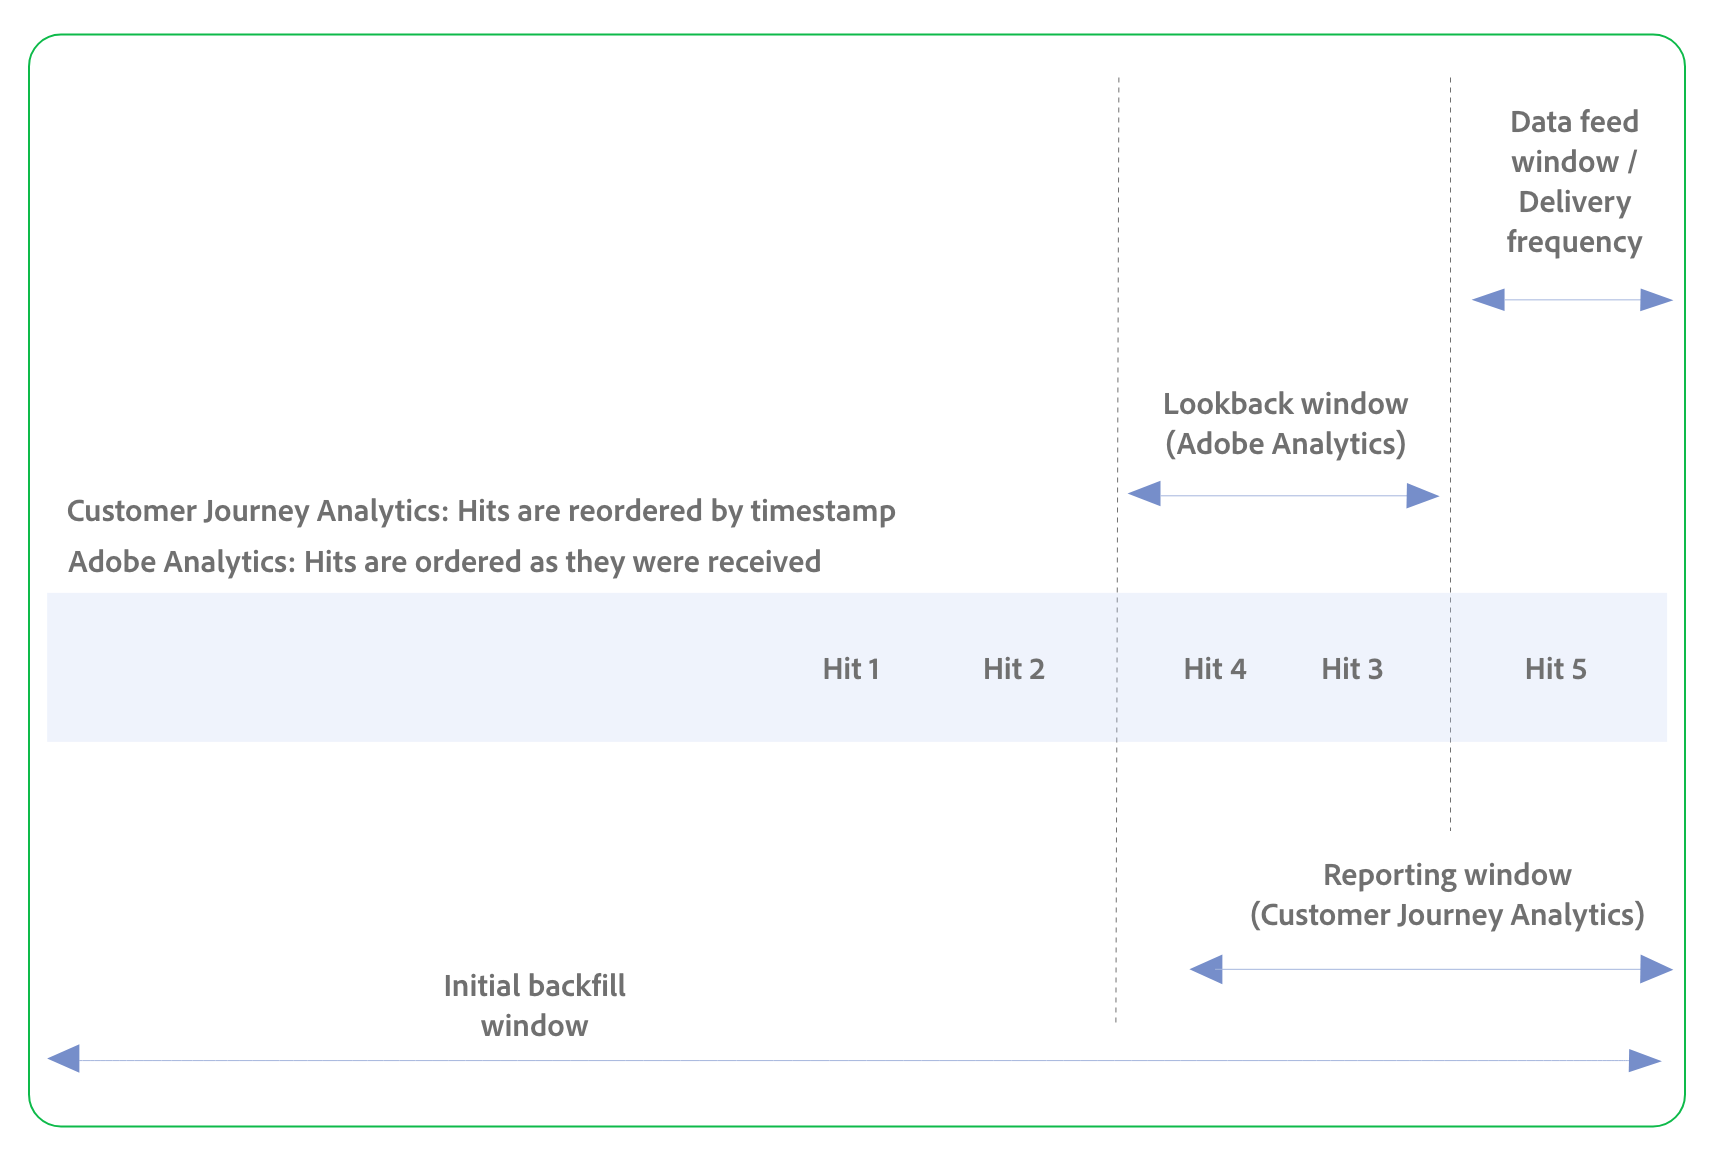
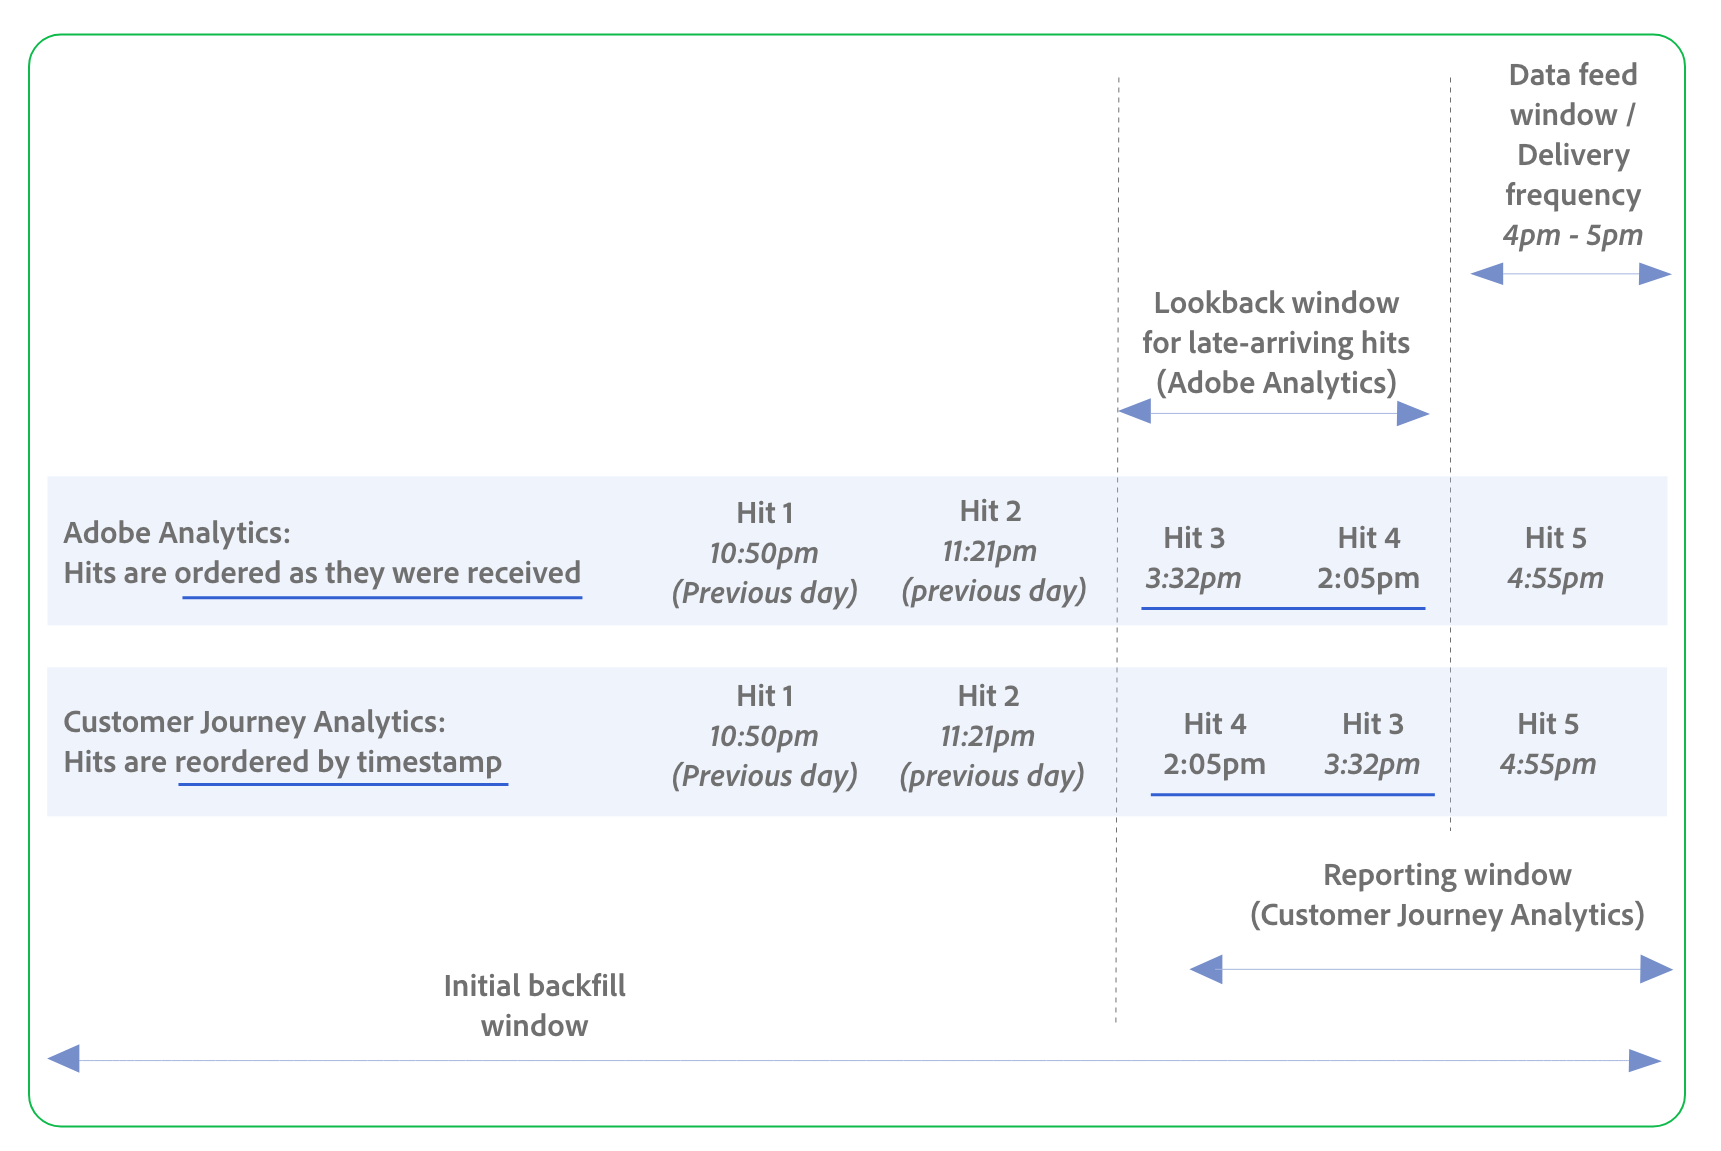
updates

diff --git a/help/analysis-workspace/export/cja-data-feeds/data-feed-overview.md b/help/analysis-workspace/export/cja-data-feeds/data-feed-overview.md
@@ -25,18 +25,18 @@ Data feeds in both Customer Journey Analytics and Adobe Analytics allow you to e
 
 | **Functionality** | **Description** | **Customer Journey Analytics data feeds** | **Adobe Analytics data feeds** | 
 |--------|--------|--------|--------|
-| Data input | The type of data that can be included in data feeds. |Supports cross-channel data input, including web data, call center data, point-of-sale data, and more.  | Supports web and mobile data input only. |
-| Data processing |  |Data is processed at report time, and therefore many reporting features in Customer Journey Analytics can be used to change historical data, such as stitching, derived fields, data prep, segmentation, and the reporting window.  | Data is processed at collection time, and therefore reporting features such as processing rules, VISTA rules, stitching, and segmentation do not affect historical data.  |
+| Data input | The type of data that can be collected and included in data feeds. |Supports cross-channel data input, including web data, call center data, point-of-sale data, and more.  | Supports web and mobile data input only. |
+| Data processing | Data often needs to be processed before it is useful for reporting. In Customer Journey Analytics, data is processed at different stages than in Adobe Analytics. This processing affects data feeds functionality. <p>For more information, see [Compare data processing between Adobe Analytics and Customer Journey Analytics data feeds](#compare-data-processing-between-adobe-analytics-and-customer-journey-analytics-data-feeds).</p> | Data is processed at report time, and therefore many reporting features in Customer Journey Analytics can be used to change historical data, such as stitching, derived fields, data prep, segmentation, and the reporting window.  | Data is processed at collection time, and therefore reporting features such as processing rules, VISTA rules, stitching, and segmentation do not affect historical data.  |
 | Segmentation |  | Segmets can be applied. | Segments cannot be applied. |
 | Stitching |  | Stitching can be used to join multiple datasets (to support cross-channel analysis). | Stitching is not supported. |
 | Schema |  | Uses structured, hierarchical fields, potentially containing multiple dimensions and metrics within a single column (arrays; arrays within arrays). | Uses a product list with a long string of proprietary, semicolon-delimited fields.|
-| Lookups |  | Not used<p>Browser dimensions are included in the data view.</p> | Used to match a number from a data feed column to an actual value. |
+| Lookups | Dynamic lookups allow you to receive additional lookup files in your data feed otherwise not available. | Not used<p>Browser dimensions are included in the data view.</p> | Used to match a number from a data feed column to an actual value. |
 | Output file format | The format in which data feed data is sent. | Parquet (supports structured fields and is accepted by modern data warehouses) | C3 |
 | Delivery destinations | The destinations where data feed data can be sent. | Cloud destinations, including Amazon S3, Azure RBAC, Azure SAS, and Google Cloud Platform. | Cloud destinations, including Amazon S3, Azure RBAC, Azure SAS, and Google Cloud Platform.<p>Also supports SFTP.</p>|
-| Delivery frequency / Data feed window | Determines:<ul><li>How often the data feed is sent</li><li>The window of time included in the data feed<p>In other words, after the data feed window ends and the data feed is sent, a new data feed window begins.</p></li></ul><p>The following options are available:</p><ul><li>**Daily**: Feeds contain a full day's worth of data, from midnight to midnight in the report suite's time zone. Use this option for backfill or historical data, or for continuing feeds.</li><li>**Hourly**: Feeds contain a single hour's worth of data. Use this option for continuing feeds.</li></ul> | Hourly and daily feeds. <p>Late-arriving hits that occur within the **[!UICONTROL Reporting window]** are always included.</p> | Hourly and daily feeds. In addition, 15-minute feeds are possible, but are not available by default. For this option to become available in your environment, you must first contact Adobe Customer Care and request that your report suite is configured to support 15-minute exports.</p><p>Late-arriving hits are configurable based on the **[!UICONTROL Lookback window]**.</p> |
-| Late-arriving hits / Out-of-order hits | Hits that should have been included in a previous data feed, but they arrived late (such as through timestamped hits or data sources). <p>These late hits are included in the current data feed at the time they arrive, even though their timestamps are within a previous data feed window. Every time a data feed processes data, it looks at any late hits that have arrived and batches them in the next data feed file that is sent.</p> | Always included <p>The lookback window for these hits is controlled through the **[!UICONTROL Reporting window]** configuration option.</p><p>Hits are automatically reordered based on timestamps; original values are persisted (no change feed).</p> | Can be included or excluded. Configurable with the **[!UICONTROL Late-arriving hits]** configuration option.<p>The lookback window for these hits is configured through the **[!UICONTROL Lookback window]** configuration option that is available for this specific purpose.</p><p>Hits are shown in the order in which they are received; they are not reordered according to timestamp.</p> |
-| Reporting window (Customer Journey Analytics only) | The window of time that includes:<ul><li>The current data feed window (the most recent hour or day, as selected in the **[!UICONTROL Delivery frequency]** field)</li><li>A specified amount of time prior to the current data feed window that allows for any late or out-of-order hits.</li></ul> <p>Required for sessions, persistence, and segments.</p><p>Not used for dimensions (dimensions are controlled per dimension based on the dimension's allocation and expiration).</p>| Supported | N/A<p>See "Lookback window"</p> |
-| Lookback window (Adobe Analytics only) | The cutoff for late or out-of-order hits that are delivered outside of the **[!UICONTROL Delivery frequency]** that is selected (**[!UICONTROL Hour]**, **[!UICONTROL Day]**, or **[!UICONTROL 15 minutes]**).<p>Not used for persistence, sessions, or dimensions (these are included in the raw data that is collected).</p> | N/A<p>See "Reporting window"</p> |  Supported  |
+| Delivery frequency / Data feed window | Determines:<ul><li>How often the data feed is sent</li><li>The window of time included in the data feed<p>In other words, after the data feed window ends and the data feed is sent, a new data feed window begins.</p></li></ul><p>The following options are available:</p><ul><li>**Daily**: Feeds contain a full day's worth of data, from midnight to midnight in the report suite's time zone. Use this option for backfill or historical data, or for continuing feeds.</li><li>**Hourly**: Feeds contain a single hour's worth of data. Use this option for continuing feeds.</li></ul> <p>For more information, see [Compare data processing between Adobe Analytics and Customer Journey Analytics data feeds](#compare-data-processing-between-adobe-analytics-and-customer-journey-analytics-data-feeds).</p>  | Hourly and daily feeds. <p>Late-arriving hits that occur within the **[!UICONTROL Reporting window]** are always included.</p> | Hourly and daily feeds. In addition, 15-minute feeds are possible, but are not available by default. For this option to become available in your environment, you must first contact Adobe Customer Care and request that your report suite is configured to support 15-minute exports.</p><p>Late-arriving hits are configurable based on the **[!UICONTROL Lookback window]**.</p> |
+| Late-arriving hits / Out-of-order hits | Hits that should have been included in a previous data feed, but for some reason they arrived late (such as through timestamped hits or data sources). <p>These late-arriving hits are included in the current data feed at the time they arrive, even though their timestamps are within a previous data feed window. Every time a data feed processes data, it looks at any late hits that have arrived and batches them in the next data feed file that is sent.</p><p>For more information, see [Compare data processing between Adobe Analytics and Customer Journey Analytics data feeds](#compare-data-processing-between-adobe-analytics-and-customer-journey-analytics-data-feeds).</p>  | Always included <p>The lookback window for these late-arriving hits is controlled through the **[!UICONTROL Reporting window]** configuration option.</p><p>Hits are automatically reordered based on timestamps; original values are persisted (no change feed).</p> | Can be included or excluded. Configurable with the **[!UICONTROL Late-arriving hits]** configuration option.<p>The lookback window for these hits is configured through the **[!UICONTROL Lookback window]** configuration option that is available for this specific purpose.</p><p>Hits are shown in the order in which they are received; they are not reordered according to timestamp.</p> |
+| Reporting window (Customer Journey Analytics only) | The window of time that includes:<ul><li>The current data feed window (the most recent hour or day, as selected in the **[!UICONTROL Delivery frequency]** field)</li><li>A specified amount of time prior to the current data feed window that allows for any late or out-of-order hits.</li></ul> <p>Required for sessions, persistence, and segments.</p><p>Not used for dimensions. Dimensions are controlled per dimension based on the dimension's allocation and expiration. Dimension lookbacks cannot exceed the reporting window.</p><p>For more information, see [Compare data processing between Adobe Analytics and Customer Journey Analytics data feeds](#compare-data-processing-between-adobe-analytics-and-customer-journey-analytics-data-feeds).</p> | Supported | N/A<p>See "Lookback window"</p> |
+| Lookback window (Adobe Analytics only) | The cutoff for late or out-of-order hits that are delivered outside of the **[!UICONTROL Delivery frequency]** that is selected (such as **[!UICONTROL Hour]** or **[!UICONTROL Day]**).<p>Not used for persistence, sessions, or dimensions (these are included in the raw data that is collected).</p><p>For more information, see [Compare data processing between Adobe Analytics and Customer Journey Analytics data feeds](#compare-data-processing-between-adobe-analytics-and-customer-journey-analytics-data-feeds).</p>  | N/A<p>See "Reporting window"</p> |  Supported  |
 | Session definition |  | Defined in the data view | Defined at collection time <p>Uses only raw sessionization</p> |
 | Segment containers |   | (Person, Session, Event) Person containers use the entire reporting window; can expand DF hit output based on segment logic. | Not used |
 | Calculated metrics |   | | Not used |
@@ -53,22 +53,10 @@ Use the following graphic and table to understand important differences in how d
 | Data feed configuration | Adobe Analytics | Customer Journey Analytics |
 |---------|----------|---------|
 | Data feed window / Delivery frequency | 1 hour | 1 hour |
-| Lookback window | 23 hours | N/A |
+| Lookback window | 23 hours | Included in the **[!UICONTROL Reporting window]**. |
 | Reporting window | N/A | 24 hours |
 | Initial backfill window | 7 days | 7 days |
-| Hits | Only Hit 5 is in the data feed window. However, because a lookback is configured and it includes Hit 4 and Hit 3, they are also included in the data feed. (If a lookback was not configured, only Hit 5 would be included in the data feed.) <p>Hits are shown in the data feed in the order they were received, as follows: Hit 4, Hit 3, Hit 5.</p> | Only Hit 5 is in the data feed window. However, because the reporting window also includes Hit 4 and Hit 3, they are also included in the data feed.<p>Hits are reordered in the data feed according to their timestamp, as follows: Hit 3, Hit 4, Hit 5.</p> |
-
-Adobe Analytics data feeds
-
-
-
-Delivery frequency
-Late-arriving hits
-Reporting window
-Lookback window
-Out-of-order hits
-
-
+| Hits | Only Hit 5 is in the data feed window. However, because a lookback is configured and it includes Hit 4 and Hit 3 (which are late-arriving hits with timestamps from a previous data feed window), they are also included in the current data feed window. (If a lookback was not configured, only Hit 5 would be included in the data feed.) <p>Hits are shown in the data feed in the order they were received, as follows: Hit 4, Hit 3, Hit 5.</p> | Only Hit 5 is in the data feed window. However, because the reporting window also includes Hit 4 and Hit 3 (which are late-arriving hits with timestamps from a previous data feed window), they are also included in the current data feed window.<p>Hits are reordered in the data feed according to their timestamp, as follows: Hit 3, Hit 4, Hit 5.</p> |
 
 
 ## Next steps
